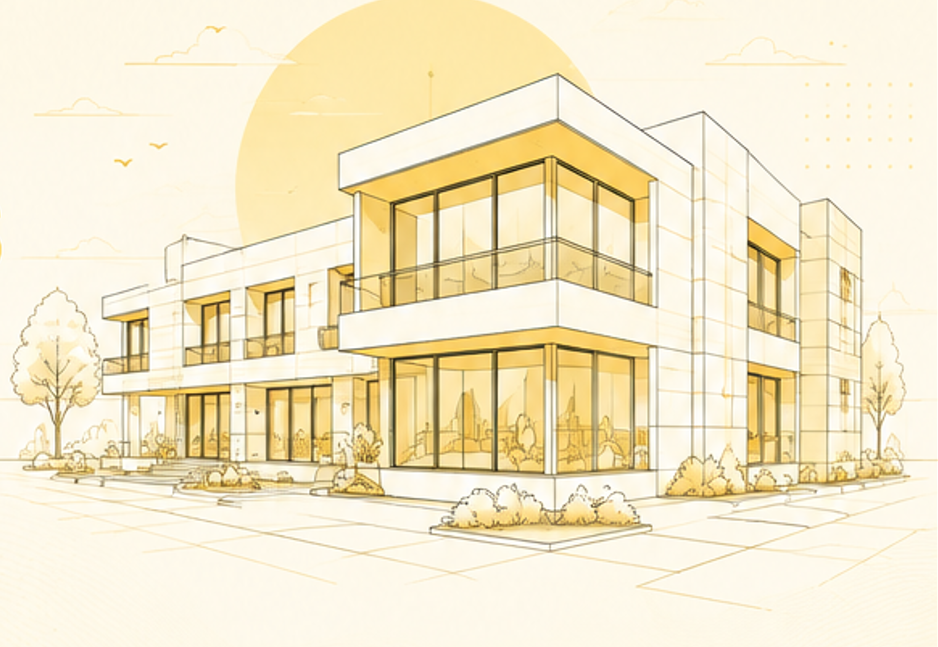
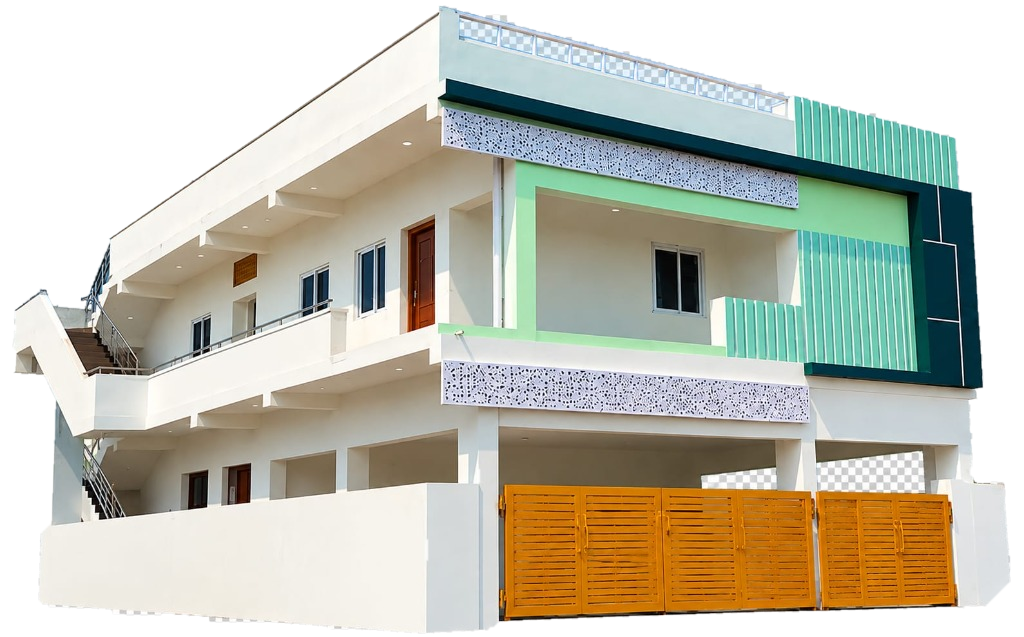
feat(hero): replace architectural sketch with real modern house building image

diff --git a/src/components/Hero/Hero.module.css b/src/components/Hero/Hero.module.css
@@ -149,10 +149,26 @@
   min-width: 0;
 }
 
+.visual::before {
+  content: "";
+  position: absolute;
+  width: 440px;
+  height: 440px;
+  border-radius: 50%;
+  background: radial-gradient(circle, rgba(244, 185, 0, 0.22) 0%, rgba(248, 214, 109, 0.08) 55%, transparent 75%);
+  top: 50%;
+  left: 50%;
+  transform: translate(-50%, -50%);
+  pointer-events: none;
+  z-index: 0;
+  filter: blur(28px);
+}
+
 .imgWrap {
   width: 100%;
-  max-width: 560px;
-  overflow: hidden;
+  max-width: 620px;
+  position: relative;
+  z-index: 1;
 }
 
 .heroImg {
@@ -160,6 +176,7 @@
   height: auto;
   object-fit: contain;
   will-change: transform;
+  filter: drop-shadow(0 24px 35px rgba(0, 0, 0, 0.12)) drop-shadow(0 6px 12px rgba(217, 154, 0, 0.08));
 }
 
 .btnArrow {
